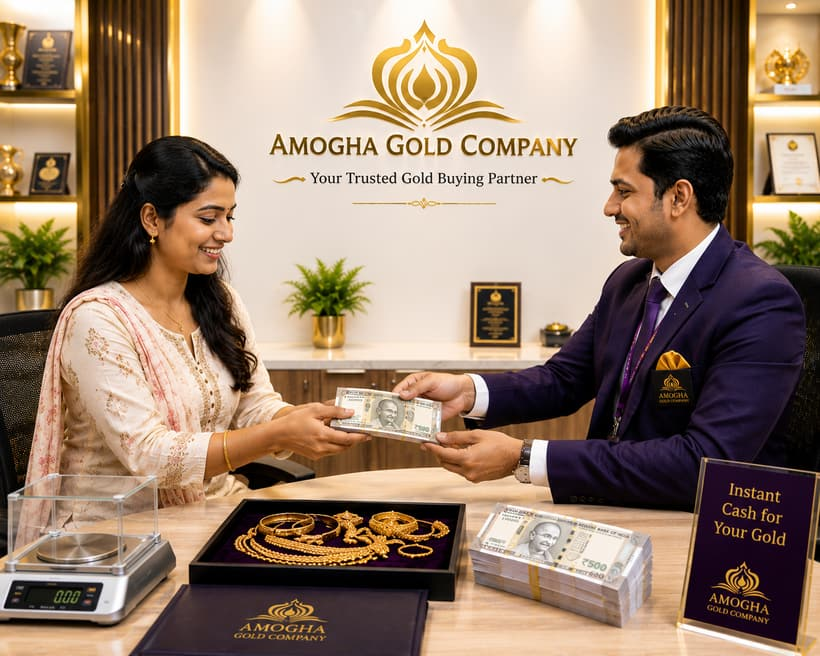
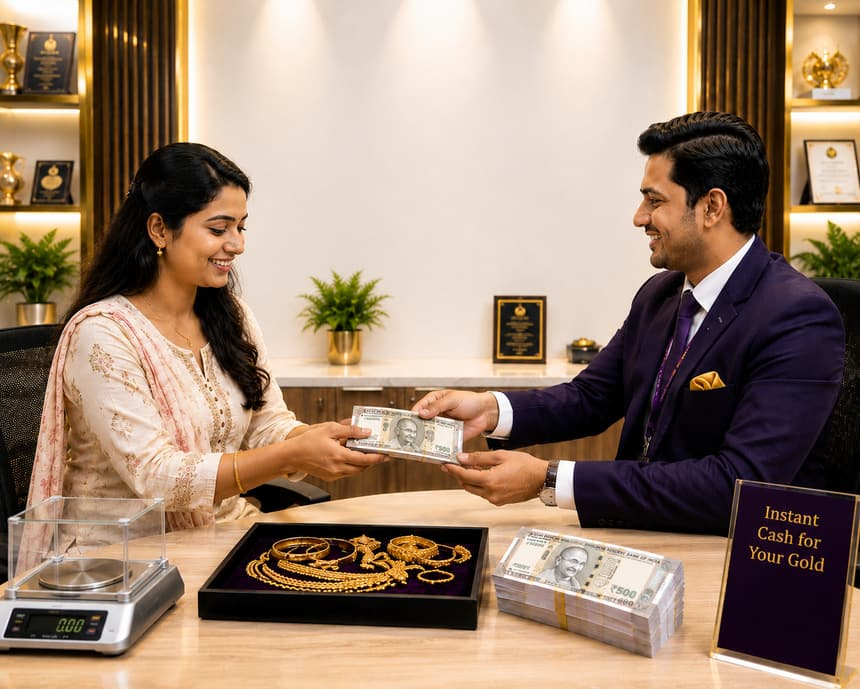
Update About section image with cleaner reception photo (v3)
Optimized new photo (860x689, 75KB); updated dimensions and cache-bust.

diff --git a/index.html b/index.html
@@ -187,7 +187,7 @@
 
     <!-- LEFT IMAGE BLOCK -->
     <div class="about-pro-image">
-      <img src="images/about.jpg?v=2" alt="Customer receiving instant cash for gold at Amogha Gold Company, Bengaluru" width="820" height="656" loading="lazy" decoding="async">
+      <img src="images/about.jpg?v=3" alt="Customer receiving instant cash for gold at Amogha Gold Company, Bengaluru" width="860" height="689" loading="lazy" decoding="async">
       <div class="experience-badge">
         <h3>Trusted</h3>
         <span>Gold Experts</span>
